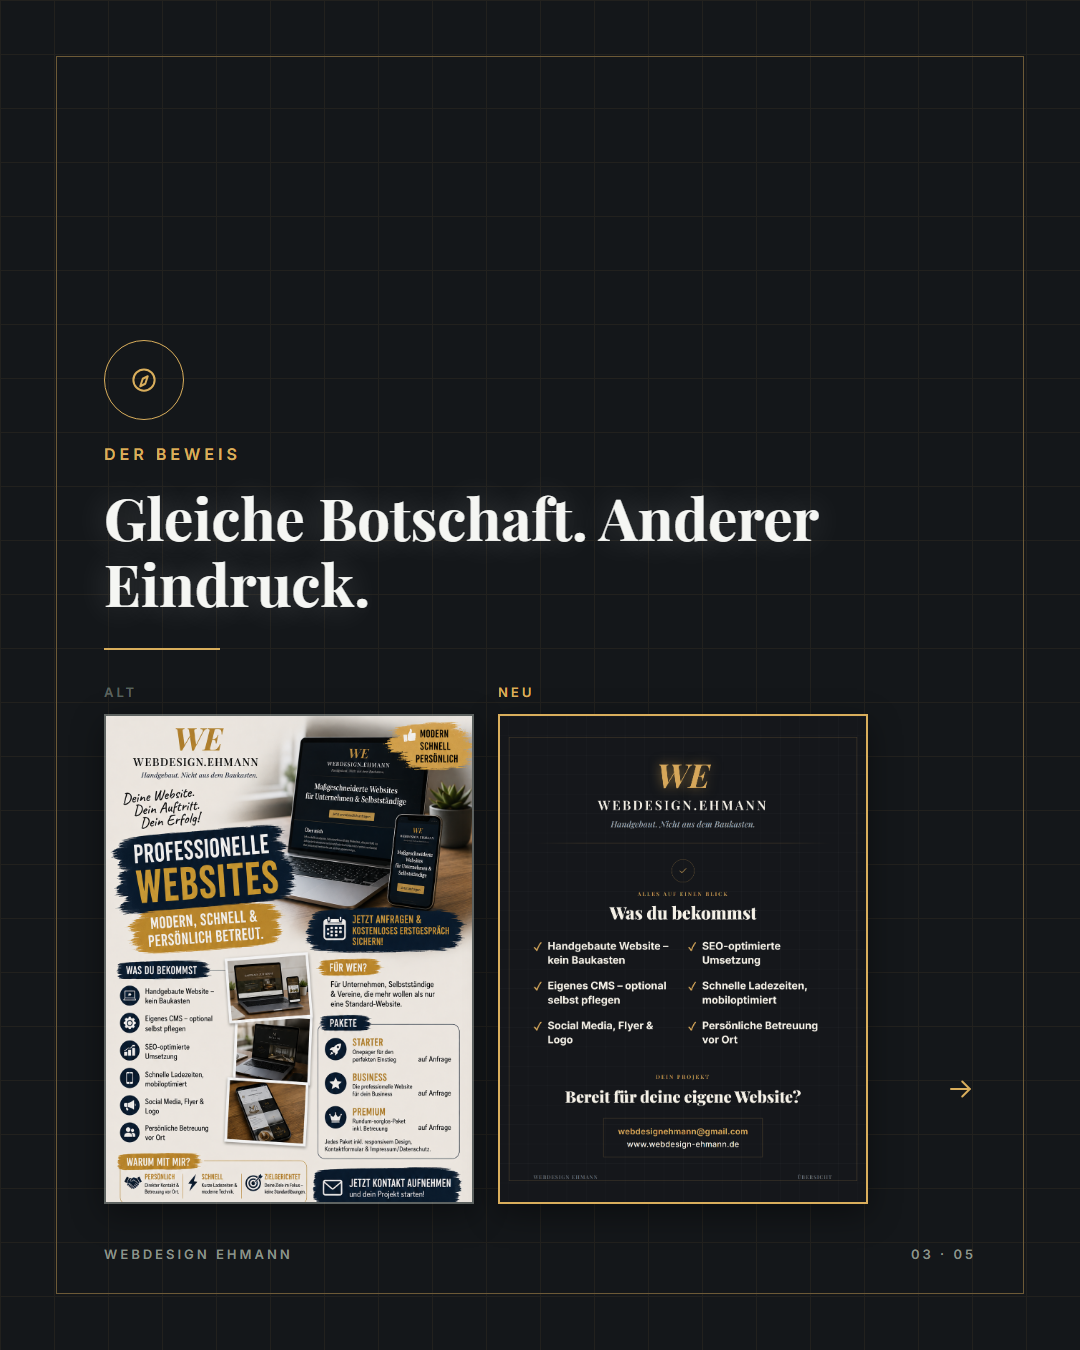
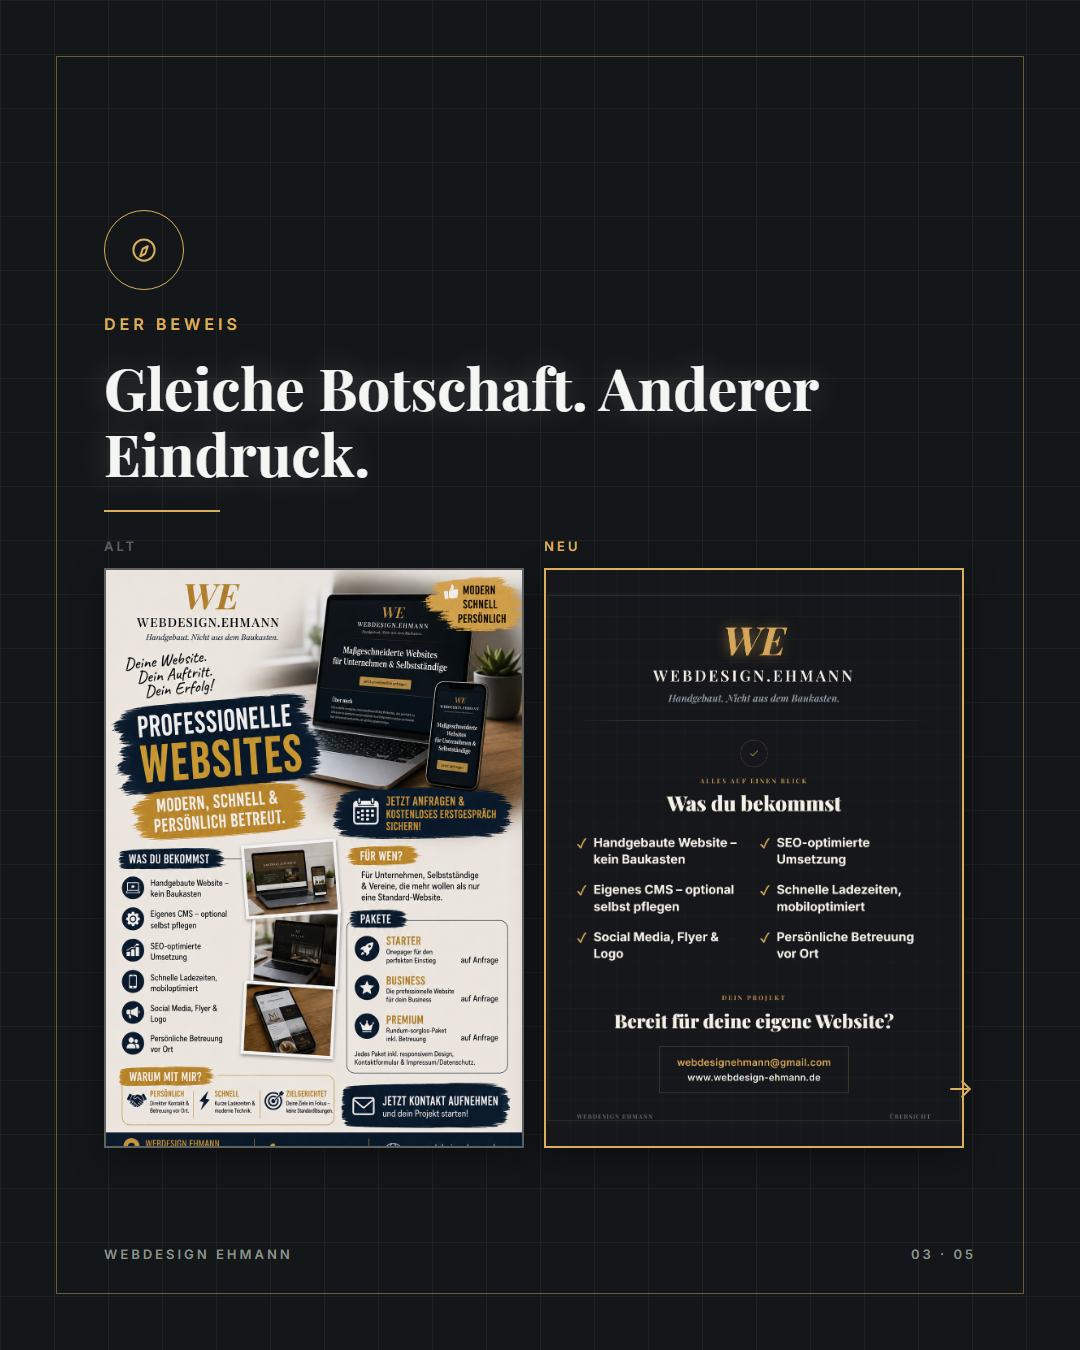
KI Flyer Vergleich: Slide-3-Karten und Slide-1-Foto weiter vergrößert
Slide 3: Kicker/Headline nach oben gerückt, Vergleichskarten auf
420x580 vergrößert. Slide 1: Beweisfoto auf 340x476 vergrößert, damit
es auf den ersten Blick erkennbar ist.

diff --git a/assets/marketing/instagram-posts/_build/build.js b/assets/marketing/instagram-posts/_build/build.js
@@ -202,7 +202,7 @@ function renderBody(slide, t) {
   if (slide.kind === "cover-photo") {
     const n = lineCount(slide.headline);
     const size = n <= 1 ? 84 : n === 2 ? 70 : 58;
-    const photo = flyerCardImage(imgDataUri(slide.photo), { w: 250, h: 350, borderColor: t.cardBorder, rotate: -3 });
+    const photo = flyerCardImage(imgDataUri(slide.photo), { w: 340, h: 476, borderColor: t.cardBorder, rotate: -3 });
     return `
     <div class="content content-center content-center-photo">
       <div class="kicker center">${slide.kicker}</div>
@@ -250,18 +250,18 @@ function renderBody(slide, t) {
   if (slide.kind === "flyer-compare") {
     const size = headlineSize(slide.headline, false);
     const beforeCard = slide.beforeImage
-      ? flyerCardImage(imgDataUri(slide.beforeImage), { w: 370, h: 490, borderColor: t.mutedStrong })
+      ? flyerCardImage(imgDataUri(slide.beforeImage), { w: 420, h: 580, borderColor: t.mutedStrong })
       : flyerCardBad();
     const afterCard = slide.afterImage
-      ? flyerCardImage(imgDataUri(slide.afterImage), { w: 370, h: 490, borderColor: t.accent })
+      ? flyerCardImage(imgDataUri(slide.afterImage), { w: 420, h: 580, borderColor: t.accent })
       : flyerCardGood(t);
     return `
-    <div class="content content-left">
+    <div class="content content-left" style="top:210px;">
       ${iconBadge(t, slide.icon)}
       <div class="kicker left">${slide.kicker}</div>
       <h1 class="headline left" style="font-size:${size}px;">${toHtml(slide.headline)}</h1>
-      <div class="divider" style="margin:32px 0 34px;"></div>
-      <div style="display:flex; gap:24px;">
+      <div class="divider" style="margin:24px 0 26px;"></div>
+      <div style="display:flex; gap:20px;">
         <div>
           <div style="font-family:'Inter',sans-serif; font-weight:600; font-size:13px; letter-spacing:3px; color:${t.mutedStrong}; margin-bottom:14px;">${slide.beforeLabel}</div>
           ${beforeCard}
